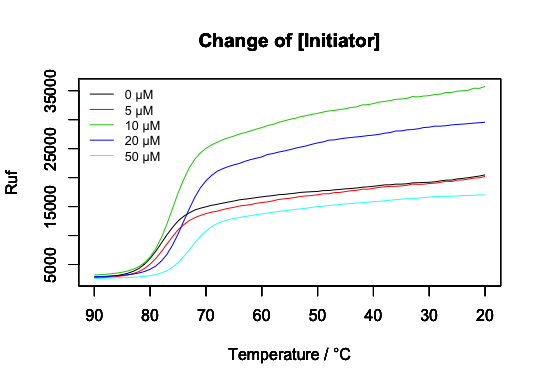
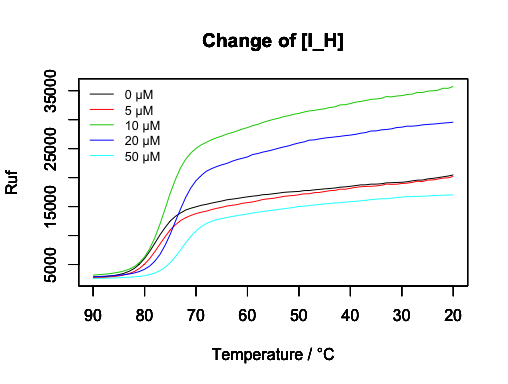
add caption and correct figures

diff --git a/Discussion.html b/Discussion.html
@@ -204,9 +204,14 @@
             <div class="row">
                 <img src="images/simulation_control.png">
             </div>
+            Figure ?. Sequence and structure of starnds of controll condtion
+
             <div class="row">
                 <img src="images/control_processed.png">
             </div>
+            Figure ?. Simulation results of controll condtion
+
+            <br>
             <a href="http://www.nupack.org/partition/show/1562248?time_refresh=1.0&token=pGLn18Oh2C">Link to nupack</a>
 
 
@@ -216,9 +221,14 @@
             <div class="row">
                 <img src="images/simulation_linker_h1.png">
             </div>
+            Figure ?. Sequence and structure of starnds wihtout linker of H1
+
             <div class="row">
                 <img src="images/linker_h1_processed.png">
             </div>
+            Figure ?. Simulation results wihtout linker of H1
+
+            <br>
             <a href="http://www.nupack.org/partition/show/1562246?time_refresh=1.0&token=Qn1xRLa11G">Link to nupack</a>
 
 
@@ -229,9 +239,14 @@
             <div class="row">
                 <img src="images/simulation_linker_h2.png">
             </div>
+            Figure ?. Sequence and structure of starnds wihtout linker of H2
+
             <div class="row">
                 <img src="images/linker_h2_processed.png">
             </div>
+            Figure ?. Simulation results wihtout linker of H2
+
+            <br>
             <a href="http://www.nupack.org/partition/show/1562245?time_refresh=1.0&token=FTJQdFUOHW">Link to nupack</a>
 
 
@@ -245,9 +260,14 @@
             <div class="row">
                 <img src="images/simulation_dimer_h1.png">
             </div>
+            Figure ?. Sequence and structure of starnds wihtout dimer of H1
+
             <div class="row">
                 <img src="images/dimer_h1_processed.png">
             </div>
+            Figure ?. Simulation results wihtout dimer of H1
+
+            <br>
             <a href="http://www.nupack.org/partition/show/1562744?time_refresh=1.0&token=wMjG46AY8F" target="_blank">Link to nupack</a>
 
 
@@ -261,9 +281,14 @@
             <div class="row">
                 <img src="images/simulation_dimer_h2.png">
             </div>
+            Figure ?. Sequence and structure of starnds wihtout dimer of H2
+
             <div class="row">
                 <img src="images/dimer_h2_processed.png">
             </div>
+            Figure ?. Simulation results wihtout dimer of H2
+
+            <br>
             <a href="http://www.nupack.org/partition/show/1562244?time_refresh=1.0&token=ZTCJpwWOlE">Link to nupack</a>
 
 

diff --git a/Result.html b/Result.html
@@ -130,6 +130,9 @@
             <h2 class="docs-header">
                 <b>Results</b>
             </h2>
+
+
+
             <h3>Electrophoresis of st1 and I_H</h3>
             <p>When st1 and I_H were mixed, we observed the third band. It is thouhgt to be the dsDNA, result form hybridization
                 of st1 and I_H.</p>
@@ -137,6 +140,9 @@
             <div class="row">
                 <img src="images/ele_st1_i_h.png">
             </div>
+            Figure ?. Electrophoresis image of st1 and I_H
+
+
 
             <h3>Electrophoresis of combination H1, H2 and I_H</h3>
             <p>H1 and H2 formed dimer, but any other hybridization was not seen.</p>
@@ -144,6 +150,9 @@
             <div class="row">
                 <img src="images/ele_combination.png">
             </div>
+            Figure ?. Electrophoresis image of combination H1m H2 and I_H
+
+
 
             <h3>Meltcurve with change of [I_H]</h3>
             <p>Hybridization reached peak when the ratio of [I_H]/[H1]([H2]) = 1/10.</p>
@@ -151,6 +160,10 @@
             <div class="row">
                 <img src="images/meltcurve_i_h.png">
             </div>
+            Figure ?. Meltcurve with change of [I_H]
+            <br> [H1], [H2] = 100 &microM
+
+
 
             <h3>Meltcurve with change of [Na
                 <sup>+</sup>] </h3>
@@ -159,6 +172,10 @@
             <div class="row">
                 <img src="images/meltcurve_na.png">
             </div>
+            Figure ?. Meltcurve with change of [Na
+            <sup>+</sup>]
+
+
 
 
             <h3>Meltcurve with change of [Mg
@@ -168,6 +185,8 @@
             <div class="row">
                 <img src="images/meltcurve_mg.png">
             </div>
+            Figure ?. Meltcurve with change of [Mg
+            <sup>2+</sup>]
 
         </div>
 
